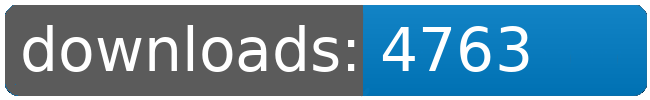
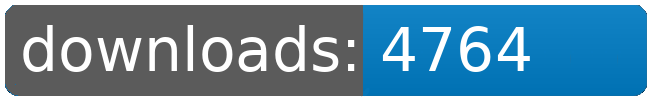
dl log written

Changed region(s): [[0.7692, 0.24, 0.8308, 0.72]]

diff --git a/README.md b/README.md
@@ -76,8 +76,8 @@
 		<td>4716</td>
 		<td>4733</td>
 		<td>4752</td>
-		<td>4763</td>
-		<td>+ 11</td>
+		<td>4764</td>
+		<td>+ 12</td>
 	</tr>
 	<tr>
 		<td>Solar.Sails</td>
@@ -87,8 +87,8 @@
 		<td>4175</td>
 		<td>4197</td>
 		<td>4215</td>
-		<td>4229</td>
-		<td>+ 14</td>
+		<td>4230</td>
+		<td>+ 15</td>
 	</tr>
 	<tr>
 		<td>Zone.of.Control</td>
@@ -109,8 +109,8 @@
 		<td></td>
 		<td></td>
 		<td></td>
-		<td>35206</td>
-		<td>109</td>
+		<td>35208</td>
+		<td>111</td>
 	</tr>
 </table>
 </sub></sup>
@@ -146,8 +146,8 @@
 		<td>4716</td>
 		<td>4733</td>
 		<td>4752</td>
-		<td>4763</td>
-		<td>+ 11</td>
+		<td>4764</td>
+		<td>+ 12</td>
 	</tr>
 	<tr>
 		<td>Korunak.Defense.Drones</td>
@@ -179,8 +179,8 @@
 		<td>4175</td>
 		<td>4197</td>
 		<td>4215</td>
-		<td>4229</td>
-		<td>+ 14</td>
+		<td>4230</td>
+		<td>+ 15</td>
 	</tr>
 	<tr>
 		<td>Factory.Outlets</td>
@@ -223,8 +223,8 @@
 		<td></td>
 		<td></td>
 		<td></td>
-		<td>35206</td>
-		<td>109</td>
+		<td>35208</td>
+		<td>111</td>
 	</tr>
 </table>
 </sub></sup>
